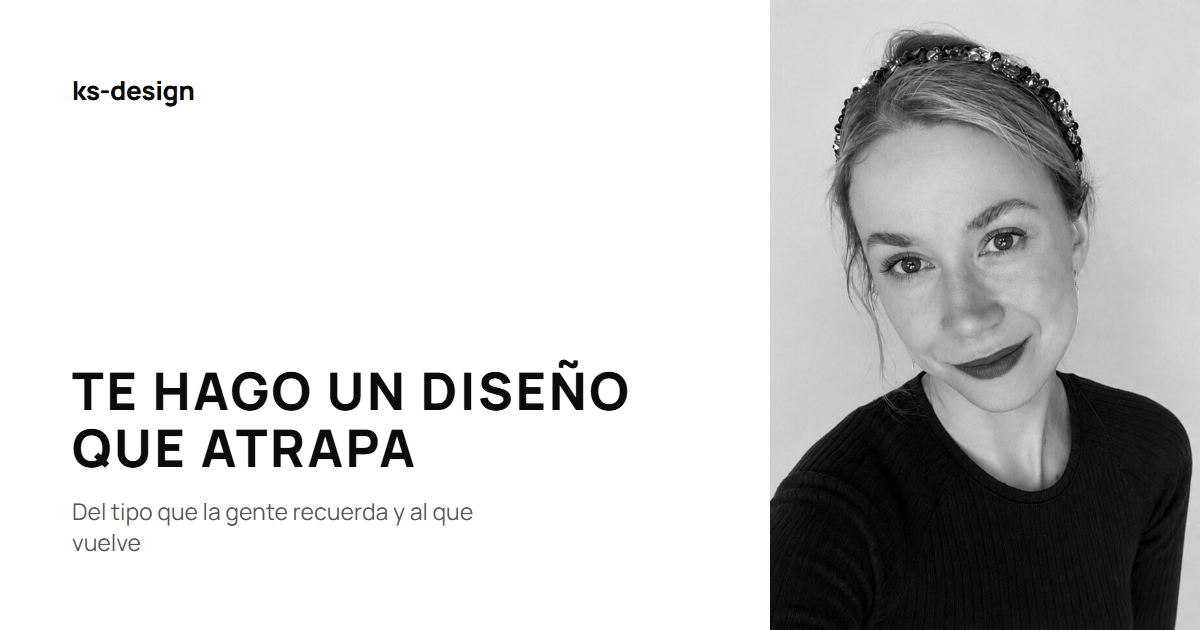
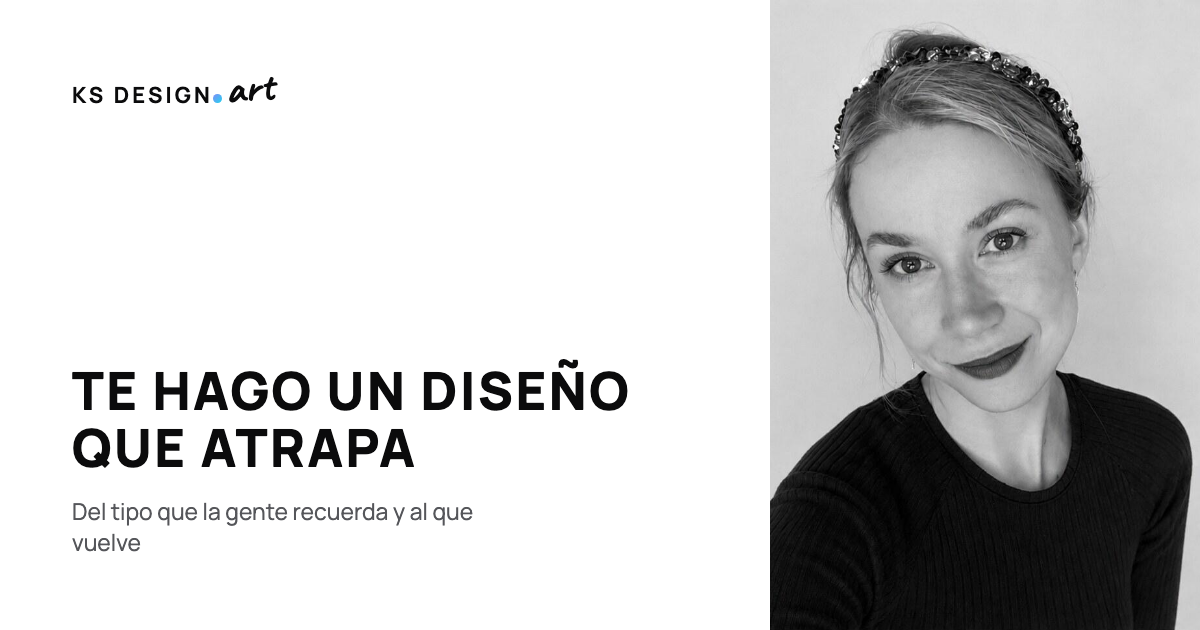
Rename the brand to ks design.art: hand-written wordmark and site name
The client picked variant 07 «Рукописный art» from a 10-variant show
(2026-11-19). The header mark now reads KS DESIGN + the cornflower dot
as the domain's full stop + "art" written in Caveat, and the same name
is what search engines read: both titles, og:site_name, the WebSite
node (with alternateName ks-design, ks-design.art — domain last and
lowercase, per Google's site-name docs), the Brand, llms.txt and the
404 titles all come from identity.brand.

- render.js: new wordmark markup; a visually hidden "." keeps the
  accessible name "ks design.art"; WebSite.alternateName; versioned
  og:image URL (?v=2) so messengers drop the cached old card.
- layout.css: dot as a full stop, .brand-art in Caveat 600 at 1.95em,
  -5deg, line-height 0; the mark never wraps.
- make-og.mjs + og-en/og-es.png: the social cards carry the new mark.
- AGENTS.md, README, tokens.css: Caveat's third sanctioned use, the
  wordmark spec and its history, and a "site name" rule.
- tests: spoken name, .brand-art rule, one site name across WebSite,
  Brand, title, og:site_name, llms.txt and 404; versioned card URL.

diff --git a/website/src/render.js b/website/src/render.js
@@ -9,7 +9,7 @@
    desktop, and the deck scrolls with snap points. Everything still reads as a
    plain document on phones and without CSS. */
 
-import { content, experienceYears, faqTopics, identity, languages, links, ogImages } from "./content.js";
+import { content, experienceYears, faqTopics, identity, languages, links, ogImages, ogImageVersion } from "./content.js";
 
 const escapeHtml = (value = "") =>
   String(value)
@@ -18,6 +18,9 @@ const escapeHtml = (value = "") =>
     .replaceAll(">", "&gt;")
     .replaceAll('"', "&quot;")
     .replaceAll("'", "&#039;");
+
+/** The social card's absolute URL, versioned: previews are cached by it. */
+const ogImageUrl = (origin, lang) => `${origin}/assets/${ogImages[lang]}?v=${ogImageVersion}`;
 
 /** `%YEARS%` is the only placeholder in the copy: the career length is derived
  *  from a start year so it cannot go stale. */
@@ -118,7 +121,7 @@ function header(lang, copy, anchorBase = "") {
 
   return `<header class="site-header" data-header>
     <div class="container header-inner">
-      <a class="brand" href="${home}"><span class="brand-word">ks<span class="brand-dot" aria-hidden="true"></span><span class="visually-hidden"> </span>design</span></a>
+      <a class="brand" href="${home}"><span class="brand-word">ks design<span class="brand-dot" aria-hidden="true"></span><span class="visually-hidden">.</span><span class="brand-art">art</span></span></a>
       <nav class="site-nav" id="site-nav" aria-label="${escapeHtml(copy.nav.label)}">
         <ul role="list">${navItems}</ul>
       </nav>
@@ -522,7 +525,7 @@ function documentShell({ lang, copy, origin, body, description, title, canonical
   <meta property="og:locale" content="${languages[lang].ogLocale}">
   ${ogLocaleAlternates}
   <meta property="og:url" content="${origin}${canonicalPath}">
-  <meta property="og:image" content="${origin}/assets/${ogImages[lang]}">
+  <meta property="og:image" content="${ogImageUrl(origin, lang)}">
   <meta property="og:image:type" content="image/png">
   <meta property="og:image:width" content="1200">
   <meta property="og:image:height" content="630">
@@ -576,6 +579,7 @@ function structuredData(lang, copy, origin) {
       ...website,
       url: `${origin}/`,
       name: identity.brand,
+      alternateName: identity.alternateNames,
       inLanguage: Object.values(languages).map((config) => config.locale),
       datePublished: identity.launched,
       publisher: person
@@ -591,7 +595,7 @@ function structuredData(lang, copy, origin) {
       about: person,
       mainEntity: person,
       hasPart: { "@id": `${page}#faq` },
-      primaryImageOfPage: `${origin}/assets/${ogImages[lang]}`
+      primaryImageOfPage: ogImageUrl(origin, lang)
     },
     {
       "@type": "Person",
@@ -813,7 +817,7 @@ export function renderNotFound(lang, origin, assetVersions = {}) {
     copy,
     origin,
     body,
-    title: `${copy.notFound.title} · ks-design`,
+    title: `${copy.notFound.title} · ${identity.brand}`,
     description: copy.notFound.body,
     canonicalPath: languages[lang].path,
     extraHead: '<meta name="robots" content="noindex">',

diff --git a/website/src/content.js b/website/src/content.js
@@ -68,6 +68,12 @@ export const localesAwaitingReview = ["es"];
  *  named here so those three cannot disagree. */
 export const ogImages = { en: "og-en.png", es: "og-es.png" };
 
+/** Bumped whenever the cards' pixels change. Social networks and messengers
+ *  cache a preview by its image URL far past any page revalidation, so a
+ *  redrawn card under the old URL keeps showing the old one. 2: the
+ *  ks design.art wordmark (2026-11-19). */
+export const ogImageVersion = 2;
+
 export const faqTopics = {
   clients: ["person"],
   "website-price": ["service-landing", "service-website"],
@@ -81,9 +87,17 @@ export const faqTopics = {
   "art-commission": ["person"]
 };
 
+/* The brand is "ks design.art" (client decision, 2026-11-19): the name and
+   the domain read as one, so a search for either finds the other. It is the
+   site name everywhere a search engine reads one — the titles, og:site_name,
+   the WebSite node, the Brand, llms.txt. `alternateNames` are the backups
+   Google's site-name system takes in order of preference: the earlier name
+   the site and the client credits went by, then the bare domain — last and
+   lowercase, which is how that system recognises a domain. */
 export const identity = {
   name: "Kristina Aquila",
-  brand: "ks-design",
+  brand: "ks design.art",
+  alternateNames: ["ks-design", "ks-design.art"],
   locality: "Buenos Aires",
   country: "AR",
   launched: "2026-08",
@@ -94,7 +108,7 @@ export const identity = {
 export const content = {
   en: {
     meta: {
-      title: "Small business website design — ks-design, Kristina Aquila",
+      title: "Small business website design — ks design.art, Kristina Aquila",
       jobTitle: "Web designer",
       description:
         "Small business website design: landing pages and one-page websites for coffee shops, salons, therapists and consultants. Non-generic AI design from Buenos Aires.",
@@ -420,7 +434,7 @@ export const content = {
 
   es: {
     meta: {
-      title: "Diseño web para emprendedores — ks-design, Kristina Aquila",
+      title: "Diseño web para emprendedores — ks design.art, Kristina Aquila",
       jobTitle: "Diseñadora web",
       description:
         "Diseño web para emprendedores y pequeños negocios: landings y sitios de una página para cafeterías, salones, psicólogos y consultores. Diseño con IA, nada genérico.",

diff --git a/website/src/styles/layout.css b/website/src/styles/layout.css
@@ -85,10 +85,11 @@
   height: 100%;
 }
 
-/* The wordmark is typography, not a mark: bold lowercase, like an item name
-   set on the menu card. */
-/* The wordmark follows the ember lab study's setting: tracked caps with the
-   cornflower dot sitting on the baseline between the two words. */
+/* The wordmark is typography, not an image: "ks design.art" (client pick,
+   2026-11-19, variant 07 «Рукописный art» of a 10-variant show). KS DESIGN
+   keeps the ember lab study's tracked caps; the cornflower dot is the
+   domain's full stop, on the baseline; "art" is written by hand in the
+   contact line's Caveat. It never wraps: the three parts are one name. */
 .brand {
   display: inline-flex;
   align-items: center;
@@ -98,20 +99,39 @@
   font-size: 0.78rem;
   letter-spacing: 0.14em;
   text-transform: uppercase;
+  white-space: nowrap;
   color: var(--ink);
 }
 
-/* The dot sits nearer the KS than the DESIGN in a strict 1:2 proportion —
-   0.15em after the S, 0.30em before the D (client pick, 2026-08-19). The
-   letter-spacing after the S already adds 0.14em, so the left margin only
-   tops it up. */
+/* A full stop, not a separator: tight to the N — whose tracking already
+   opens 0.14em after it — and a hair of air before the hand-written word,
+   whose own side bearing does the rest. Inline-block on the baseline, never
+   centred. */
 .brand-dot {
   display: inline-block;
   width: 0.4em;
   height: 0.4em;
   border-radius: 50%;
   background: var(--brand-dot);
-  margin: 0 0.3em 0 0.01em;
+  margin: 0 0.08em 0 0.02em;
+}
+
+/* "art" in Caveat's one weight: 1.95em puts its x-height level with the
+   caps' height, and the −5° lift off the baseline is the pen's, pivoting on
+   the word's foot so it stays on the line. `line-height: 0` keeps the larger
+   face from opening the header row; the hand face never takes the caps'
+   tracking or case. */
+.brand-art {
+  display: inline-block;
+  margin-left: 0.02em;
+  font-family: var(--font-hand);
+  font-weight: 600;
+  font-size: 1.95em;
+  line-height: 0;
+  letter-spacing: 0;
+  text-transform: none;
+  transform: rotate(-5deg) translateY(0.02em);
+  transform-origin: 0 100%;
 }
 
 /* From the taped-print breakpoint the wordmark hangs 15px into the gutter,

diff --git a/website/src/styles/tokens.css b/website/src/styles/tokens.css
@@ -3,8 +3,8 @@
    ramp — after the printed-menu reference the page follows. Hierarchy is
    carried by weight, tracking, hairline rules and scale, the way it is on
    paper. The single sanctioned exception (client decision, 2026-08-19) is
-   the cornflower dot pair in the ks·design wordmark; a test enforces that
-   every other colour in the compiled stylesheet stays neutral. */
+   the cornflower dot pair in the ks design.art wordmark; a test enforces
+   that every other colour in the compiled stylesheet stays neutral. */
 
 :root {
   /* --- ink and ground --- */
@@ -25,8 +25,9 @@
   --line: #e4e4e7;
   --line-strong: #d2d2d6;
 
-  /* The one chromatic device: the cornflower gradient of the ks·design
-     wordmark dot (client decision, 2026-08-28; it replaced the brand-gold
+  /* The one chromatic device: the cornflower gradient of the wordmark dot
+     — the full stop of ks design.art since 2026-11-19, the · of ks·design
+     before it (client decision, 2026-08-28; it replaced the brand-gold
      amber of 2026-08-19), shared with the favicon. Indigo into cyan at 135°,
      saturated enough to read on white. It marks the brand dot, and the full
      stop closing the contact slide's hand-written line, which is that same
@@ -44,8 +45,10 @@
   --font-display: "Manrope", "Manrope Fallback", -apple-system, BlinkMacSystemFont, "Segoe UI", sans-serif;
   --font-body: "Manrope", "Manrope Fallback", -apple-system, BlinkMacSystemFont, "Segoe UI", sans-serif;
   --font-serif: "Playfair Display", Georgia, "Times New Roman", serif;
-  /* The one hand-written voice: the hover annotations on the hero portrait,
-     nowhere else (client decision, 2026-08-28). Legible script, not scrawl. */
+  /* The one hand-written voice, in exactly three places: the hover
+     annotations on the hero portrait (client decision, 2026-08-28), the line
+     over the contact band (2026-09-17) and the "art" of the wordmark
+     (2026-11-19). Never UI or running text. Legible script, not scrawl. */
   --font-hand: "Caveat", "Bradley Hand", "Segoe Print", cursive;
 
   /* Fluid scale, capped in svh as well as vw: every section must fit one

diff --git a/AGENTS.md b/AGENTS.md
@@ -27,9 +27,10 @@ rules, heavy tracked capitals. Everything below follows from that.
   Display** for the chapter numerals, the pull quotes and the italic e-mail
   address in the contact band — nowhere else. The single sanctioned exception
   (client decision, 2026-08-28) is **Caveat**, the hand-written voice of the
-  hero portrait's hover annotations and, since 2026-09-17, of the one line
-  over the contact band — and of nothing else; see "The hero portrait" and
-  "The contact slide". Do not add a fourth family. `Manrope Fallback` is
+  hero portrait's hover annotations, since 2026-09-17 of the one line over
+  the contact band, and since 2026-11-19 of the `art` in the wordmark — and
+  of nothing else; see "The hero portrait", "The contact slide" and the
+  wordmark below. Do not add a fourth family. `Manrope Fallback` is
   not one: it is the visitor's own Arial, loaded from nothing, with
   `size-adjust` and ascent/descent overrides measured against Manrope in
   Chrome (2026-10-02: 102.2% for 200–500, 95.1% for 600–800, widths within
@@ -37,8 +38,8 @@ rules, heavy tracked capitals. Everything below follows from that.
   if the Manrope file changes.
 - Headings are uppercase with open tracking (`0.06em`–`0.09em`), not tight
   display type.
-- **The header is set in two voices, not one.** The wordmark and the
-  navigation links share `0.78rem`/`0.14em` (client pick, 2026-08-29,
+- **The header is set in two voices, not one.** The wordmark's capitals and
+  the navigation links share `0.78rem`/`0.14em` (client pick, 2026-08-29,
   reversing the one-step-down trial of 2026-08-28: at `0.72rem` the links
   read too quiet next to the mark); the language switch alone stays a step
   below at `0.72rem`/`0.09em` — it is a utility, not a signpost. The
@@ -126,19 +127,36 @@ rules, heavy tracked capitals. Everything below follows from that.
   files uncropped, not portrait crops.
 - The process numerals grow slightly on hover. Any motion added here stays at
   that scale: a transform on one element, killed by `prefers-reduced-motion`.
-- The wordmark is **typography, not an image**: `ks·design` set in Manrope as
-  tracked uppercase at `0.78rem`/`0.14em` — a step above the navigation
-  beside it, so the header has one voice and one echo — with a cornflower dot
-  on the baseline between the two words — nearer the KS than the DESIGN in a 1:2
-  proportion (position: client decision, 2026-08-19; the dot replaced the
-  hyphen of the earlier bold lowercase `ks-design`). The dot uses
+- The wordmark is **typography, not an image**: `ks design.art` (client
+  decision, 2026-11-19 — variant 07 «Рукописный art» of a 10-variant show,
+  `prototypes/logo-art/` in the owner's workspace, not in this repository).
+  `KS DESIGN` is Manrope 700, tracked uppercase at `0.78rem`/`0.14em`, the
+  navigation's own setting. Then the cornflower dot as the domain's full
+  stop: on the baseline like a period, never centred, tight to the N
+  (`margin: 0 0.08em 0 0.02em` — the N's tracking already opens 0.14em).
+  Then `art`, written by hand in Caveat 600 at `1.95em` of the caps, which
+  puts its x-height level with their height: untracked, lowercase, lifted
+  `−5°` about its own foot so it stays on the line, and `line-height: 0` so
+  the larger face does not open the header row. The three parts are one
+  name and never wrap apart (`white-space: nowrap`); at 360px the row still
+  holds the mark, the language switch and the hamburger. Screen readers and
+  crawlers get the plain name: the dot is `aria-hidden` and a visually
+  hidden `.` stands in for it, so the home link reads "ks design.art" — a
+  test pins it to `identity.brand`. History: the name replaced `ks·design`
+  (2026-08-19 … 2026-11-19), whose dot sat between the two words nearer the
+  KS in a 1:2 proportion, which in turn replaced the hyphen of the bold
+  lowercase `ks-design`. The dot uses
   `--brand-dot`, an indigo-to-cyan gradient at 135° (client decision,
   2026-08-28, picked from a 20-variant show as «Васильковый»; it replaced
   the flat `--brand-gold`), the page's only chromatic device, and a test
   allows exactly its two hexes and no other colour. There is still no logo
   image, and the old gradient monogram is gone and should not come back.
-  Running text and footer credits keep plain `ks-design`; the mark is a
-  header-only device. The favicon is its own device (client pick,
+  The mark lives in the header and on the social cards, which
+  `make-og.mjs` sets with the same rules (mirror `layout.css` when it
+  moves, and bump `ogImageVersion` in `content.js` with the pixels:
+  messengers cache a preview by its image URL). In text the brand is
+  written `ks design.art`; see "The site name" under Implementation. The
+  favicon is its own device (client pick,
   2026-08-31, variant 20 of a 20-variant show; it replaced the type-set
   transparent `KS.` of 2026-08-29): white lowercase `ks` — a nod to the
   original lowercase mark — on an OPAQUE plate of the `--brand-dot`
@@ -407,6 +425,18 @@ Client pick of 2026-09-17, variant 10 "Brand dot" of a 10-variant show
   and checks every fact in it against `content.js`.
 - Accessibility: one `h1` per page, AA contrast, visible `:focus-visible`, tap
   targets ≥ 44 px, `prefers-reduced-motion` disables every transition.
+- **The site name is `ks design.art`** (client decision, 2026-11-19: the
+  name and the domain read as one, so a search for either finds the site).
+  `identity.brand` feeds every place a search engine reads a site name —
+  both titles, `og:site_name`, the `WebSite` node's `name`, the Person's
+  `Brand`, the `llms.txt` heading and the 404 titles — and the `WebSite`
+  node adds `alternateName: ["ks-design", "ks-design.art"]`: the earlier
+  name first, then the bare domain, last and lowercase, which is how
+  Google's site-name system recognises a domain. That system reads the
+  `WebSite` node first and wants the title, `og:site_name` and the headings
+  to agree with it, so never name the site differently in one of them; a
+  test pins them all. The `ks-design-portfolio` Compose project, image and
+  server paths are infrastructure names, not the brand, and stay.
 - Production is `https://ks-design.art`. Keep canonical, Open Graph, sitemap,
   and robots URLs on that origin even when a Cloudflare stage builds the same
   source.
@@ -516,8 +546,8 @@ Client pick of 2026-09-17, variant 10 "Brand dot" of a 10-variant show
 - Caveat is the **one sanctioned third family** (client decision,
   2026-08-28): a single static 600 weight, subset to ASCII plus the Spanish
   lowercase accents the notes set, self-hosted like the other faces with its
-  OFL text beside it. It exists for the annotations only — never for UI or
-  running text. A test walks every note string against the subset, because a
+  OFL text beside it. It exists for the annotations, the contact line and
+  the wordmark's `art` only — never for UI or running text. A test walks every note string against the subset, because a
   missing glyph falls back to a system script mid-word rather than failing
   loudly. Widening that subset makes the face heavier, and the delivery
   check will say by how much.

diff --git a/README.md b/README.md
@@ -53,6 +53,7 @@ Caveat (OFL, beside the other font licenses).
 | Item | Value | Source |
 | --- | --- | --- |
 | Owner | Kristina Aquila | client |
+| Brand and site name | `ks design.art` — the wordmark, titles, `og:site_name` and the `WebSite` node; alternates `ks-design`, `ks-design.art` | client, 2026-11-19 |
 | Location | Buenos Aires, Argentina | client |
 | Email | `ks@ks-design.art` | client, 2026-08-31 |
 | Telegram | [@ks_aquila](https://t.me/ks_aquila) | client |
@@ -70,7 +71,7 @@ Caveat (OFL, beside the other font licenses).
 | Primary search phrases | `small business website design`, `diseño web para emprendedores`; also `one page website design`, `diseño de páginas web para pequeños negocios`; niche: `coffee shop website design`, `website design for therapists`, `diseño web para cafeterías`, `diseño web para psicólogos` | client, 2026-10-19 |
 | Other profiles, awards, publications | None | client, 2026-10-19 |
 | Lab studies (Ember, Dream Board, Fathom) | Web art is one of the main directions: animation, screensavers, exhibitions | client, 2026-10-19 |
-| "Design: ks-design" credit on client sites | Already placed wherever the client allows it | client, 2026-10-19 |
+| "Design: ks-design" credit on client sites | Already placed wherever the client allows it; to be renamed `ks design.art` on the client's side (outside this repository) | client, 2026-10-19; brand renamed 2026-11-19 |
 | Argentinian Spanish translation | `/es/` copy | original copy client-approved on 2026-08-17; the hero annotations (`hero.notes`) approved on 2026-08-28; the Dream Board and Fathom cards approved on 2026-09-11; the SEO and audience copy of 2026-10-19 awaits review; the FAQ translation was client-approved on 2026-10-23 |
 | English FAQ translation | `/` FAQ copy | adapted from the owner-confirmed Russian FAQ; both FAQ translations and their layout were client-approved on 2026-10-23 |
 
